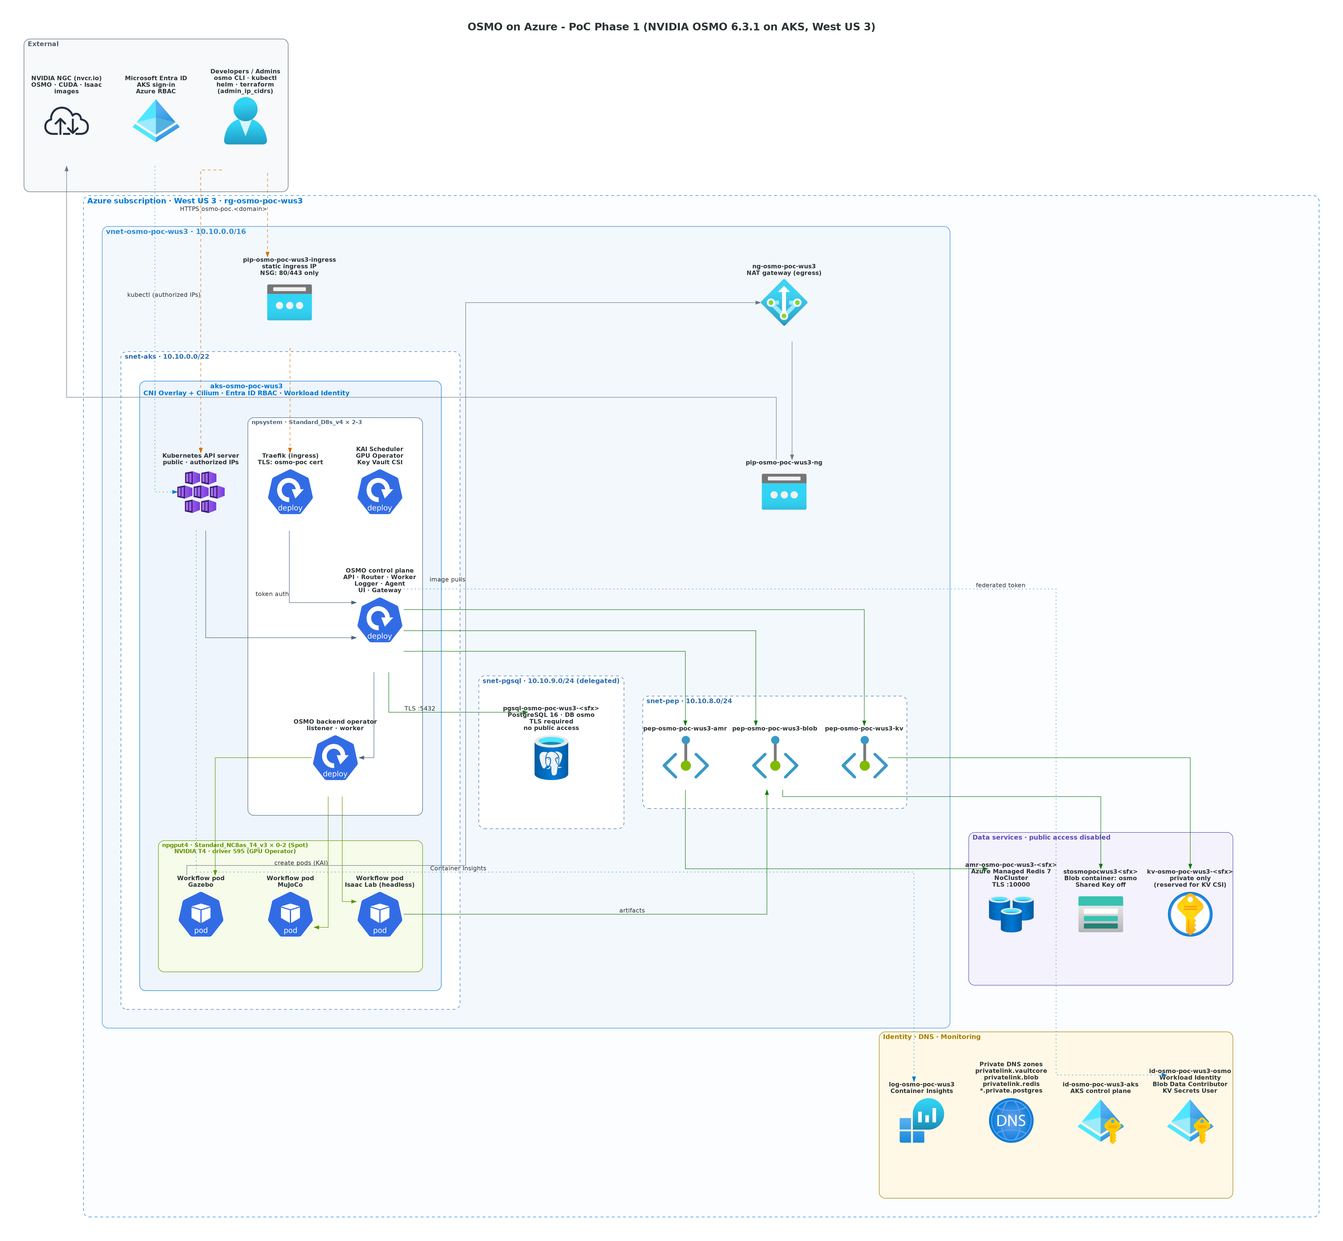
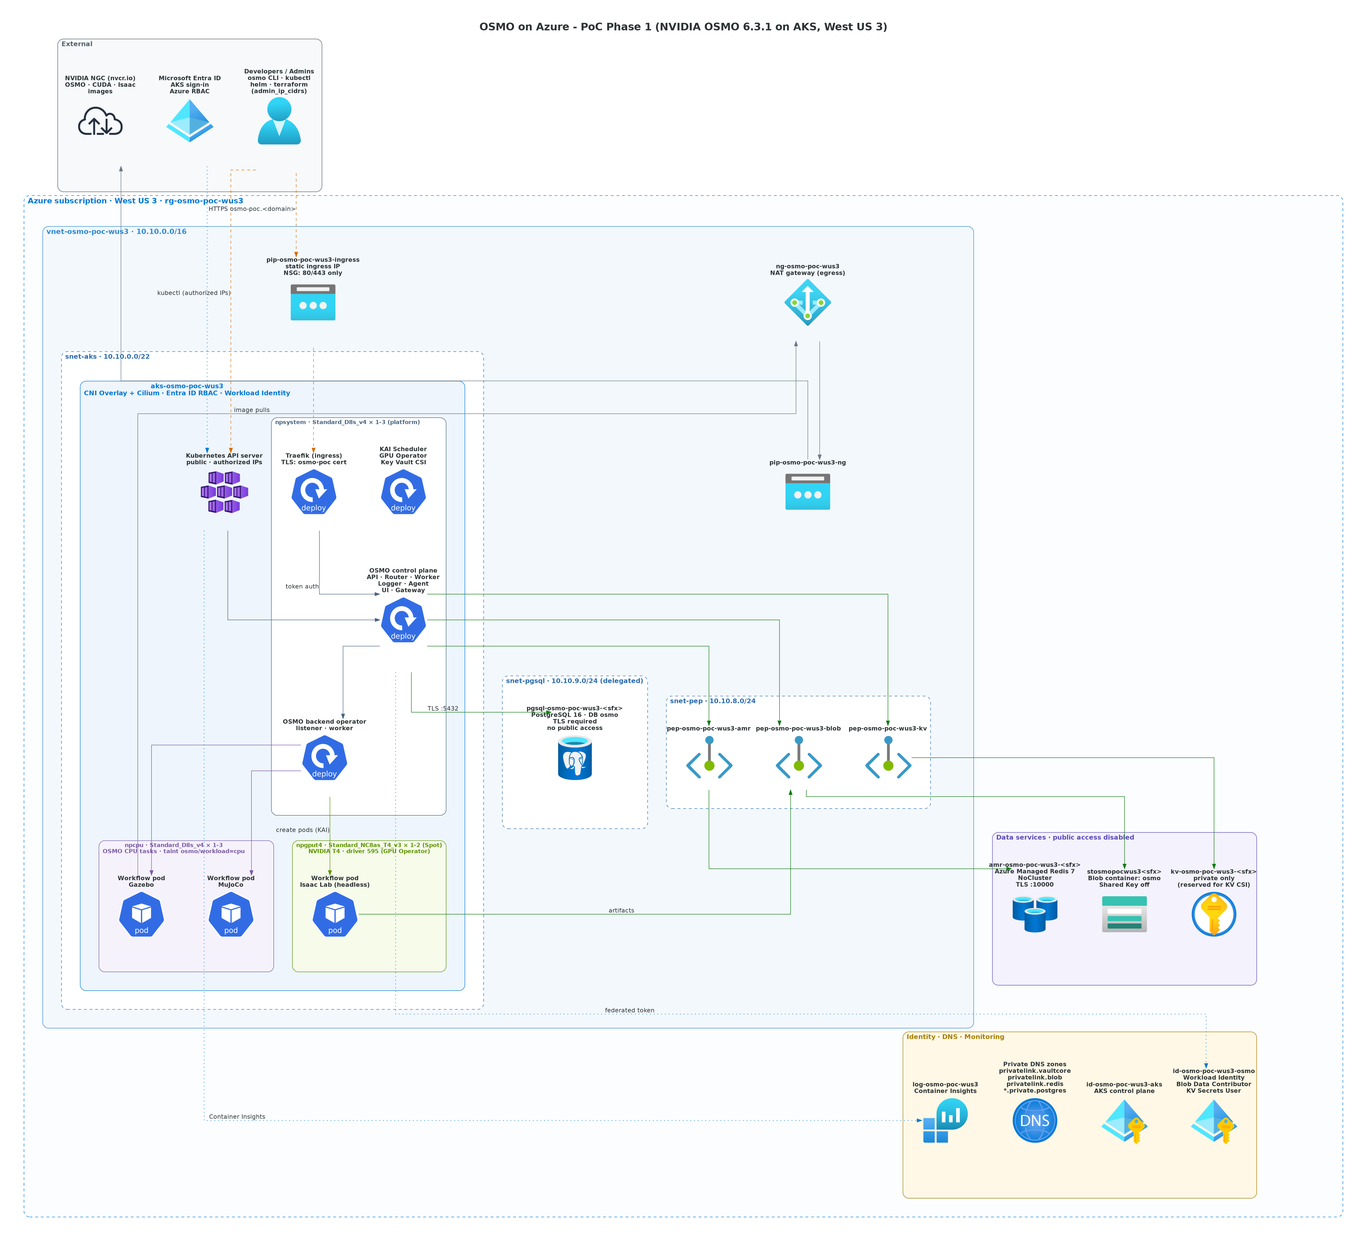
feat: dedicated CPU node pool for OSMO tasks; operations guide
infra/terraform
- New user node pool npcpu (D8s_v4 x1-3, taint osmo/workload=cpu) for
  OSMO CPU tasks; system pool back to min 1 (platform components only)

deploy
- OSMO default platform bound to npcpu via cpu_pool pod template
  (nodeSelector + toleration); system nodes no longer counted as
  workload capacity. hello / storage / gpu checks pass.

docs
- docs/operations-guide.md: daily resume, login, workflow history and
  logs, resources, cost control, troubleshooting
- README / Terraform README / deploy README and diagram updated

diff --git a/docs/operations-guide.md b/docs/operations-guide.md
@@ -1,0 +1,172 @@
+# OSMO on Azure 操作手册
+
+日常使用和运维 OSMO 的常用命令。所有命令都在**部署机**上执行，也就是装有 `az`、`kubectl`、`terraform` 和 `osmo` CLI，并且出口 IP 在 `admin_ip_cidrs` 里的那台机器。部署步骤见 [deploy/README.zh-CN.md](../deploy/README.zh-CN.md)。
+
+文中用到的占位符：
+
+| 占位符 | 含义 | 查询方式 |
+|---|---|---|
+| `<OSMO_HOSTNAME>` | OSMO 的公网 HTTPS 域名（第 5 步配置） | `kubectl get ingress osmo-public -n osmo -o jsonpath='{.spec.rules[0].host}'` |
+| `<workflow-id>` | 工作流 ID，例如 `poc-gpu-t4-4` | `osmo workflow list` |
+
+---
+
+## 1. 每天开始前：恢复环境
+
+部分订阅（如 MCAPS）每晚会自动停止 AKS 和 PostgreSQL，停机期间所有命令都会报连接失败。每天第一次使用前执行一次：
+
+```bash
+cd ~/Codes/osmo-on-azure
+deploy/scripts/00-resume.sh
+```
+
+这个脚本会做三件事：启动 AKS 和 PostgreSQL；等待 Workload Identity webhook 就绪；重启 OSMO 各组件。
+
+单独检查运行状态：
+
+```bash
+az aks show -g <资源组> -n <AKS 名称> --query powerState.code -o tsv          # Running / Stopped
+az postgres flexible-server show -g <资源组> -n <PG 名称> --query state -o tsv  # Ready / Stopped
+```
+
+资源组、AKS 和 PostgreSQL 的名称可以用 `terraform -chdir=infra/terraform output` 查看。
+
+---
+
+## 2. 登录 OSMO
+
+### 通过公网域名（推荐）
+
+```bash
+osmo login https://<OSMO_HOSTNAME> --method token \
+  --token-file <(kubectl get secret osmo-default-admin -n osmo -o jsonpath='{.data.password}' | base64 -d)
+```
+
+登录后 CLI 会保存会话。之后如果提示 token 过期，重新执行这条命令即可。
+
+### 通过 port-forward（没有配置域名时）
+
+```bash
+kubectl port-forward -n osmo svc/osmo-gateway 9000:80 &
+osmo login http://127.0.0.1:9000 --method token \
+  --token-file <(kubectl get secret osmo-default-admin -n osmo -o jsonpath='{.data.password}' | base64 -d)
+```
+
+### 签发个人 token（可选）
+
+默认管理员 token 不会过期。如果要把访问权限交给别人，或者在其他机器上使用，可以签发一个有过期时间、可以吊销的 token：
+
+```bash
+osmo token set <token名称> -e 2026-12-31 -d "说明" -t json | jq -r .token > ~/<token名称>.token
+chmod 600 ~/<token名称>.token
+osmo token list                    # 查看已签发的 token
+osmo token delete <token名称>      # 吊销
+```
+
+---
+
+## 3. 查看调度记录
+
+```bash
+osmo workflow list                                   # 最近 20 条（默认只显示自己提交的）
+osmo workflow list -a -c 50 -o desc                  # 所有用户、最近 50 条、最新的在最上面
+osmo workflow list -s FAILED RUNNING                 # 按状态筛选
+osmo workflow list --submitted-after 2026-11-05      # 按提交日期筛选
+osmo workflow list -n gpu                            # 名称中包含 gpu 的工作流
+osmo workflow list -p default                        # 指定资源池
+```
+
+常见的状态：`PENDING`、`WAITING`、`RUNNING`、`COMPLETED`、`FAILED`、`FAILED_CANCELED`、`FAILED_IMAGE_PULL`、`FAILED_EVICTED`（Spot 节点被回收）、`FAILED_QUEUE_TIMEOUT`、`FAILED_EXEC_TIMEOUT`。
+
+> 列表里的 Overview 链接是集群内部地址，浏览器打不开。Web UI 要接入 Entra ID 后才能使用，在此之前请用下面的命令查看详情。
+
+## 4. 查看单个工作流
+
+```bash
+osmo workflow query <workflow-id>                    # 状态和各任务情况（加 -v 显示重试记录）
+osmo workflow events <workflow-id>                   # 调度事件：分配到哪个节点、拉镜像、启动
+osmo workflow logs <workflow-id>                     # 任务日志（实时流式输出）
+osmo workflow logs <workflow-id> -t <任务名> -n 50   # 指定任务，只看最后 50 行
+osmo workflow logs <workflow-id> --error             # 失败任务的错误日志
+osmo workflow spec <workflow-id>                     # 当时提交的工作流 YAML
+```
+
+## 5. 查看资源
+
+```bash
+osmo pool list                                       # 资源池状态（ONLINE/OFFLINE）、GPU 用量
+osmo resource list -p default                        # 每个节点的 CPU、内存、GPU 用量
+osmo resource list -p default -m free                # 只看空闲资源
+osmo config show BACKEND default                     # backend 状态（online、最近一次心跳）
+```
+
+## 6. 提交与取消
+
+在仓库根目录执行：
+
+```bash
+osmo workflow submit deploy/workflows/hello.yaml --pool default              # CPU 任务
+osmo workflow submit deploy/workflows/storage-roundtrip.yaml --pool default  # 产物上传、下载
+osmo workflow submit deploy/workflows/gpu-t4.yaml --pool default             # T4 GPU 任务
+osmo workflow validate <工作流.yaml> --pool default                          # 只校验，不提交
+osmo workflow cancel <workflow-id>
+osmo workflow restart <workflow-id>                                          # 重跑失败的工作流
+```
+
+一键跑完全部验收：`deploy/scripts/04-verify.sh`；也可以只跑其中几项：`deploy/scripts/04-verify.sh hello gpu`。
+
+所有 `osmo` 命令都支持加 `-t json` 输出 JSON，方便用 `jq` 处理。
+
+---
+
+## 7. Kubernetes 视角
+
+```bash
+kubectl get nodes -L kubernetes.azure.com/agentpool,nvidia.com/gpu.product   # 节点、所属节点池、GPU 型号
+kubectl get pods -n osmo-workflows -o wide                                   # 正在运行的作业 Pod 及其所在节点
+kubectl get events -n osmo-workflows --sort-by=.lastTimestamp                # 调度和拉镜像的事件
+kubectl get pods -n osmo                                                     # OSMO 控制面组件
+kubectl get pods -n osmo-operator                                            # backend operator
+kubectl get pods -n gpu-operator -o wide                                     # GPU 驱动、device plugin
+kubectl get cronjob,jobs -n osmo                                             # SAS 轮换器（OSMO 6.3.1 的变通方案）
+```
+
+作业 Pod 运行结束后会被清理掉，历史记录要用 `osmo workflow ...` 查询。
+
+## 8. Azure 门户：查看作业日志
+
+打开 Log Analytics 工作区（`terraform output` 里的 `log-...`），进入**日志**页面，执行下面的查询。日志会一直保留，集群停机时也能查：
+
+```kusto
+ContainerLogV2
+| where PodNamespace == "osmo-workflows"
+| where ContainerName !in ("osmo-ctrl", "osmo-init")
+| project TimeGenerated, PodName, ContainerName, LogMessage
+| order by TimeGenerated desc
+```
+
+---
+
+## 9. 成本控制
+
+| 操作 | 方法 |
+|---|---|
+| CPU 作业节点池 | `cpu_node_min_count`（默认 1）和 `cpu_node_max_count`（默认 3）。设为 0 后无法提交 CPU 任务 |
+| 暂时不用 GPU | 在 `infra/terraform/terraform.tfvars` 中设置 `gpu_node_min_count = 0`，然后执行 `terraform apply`。注意：节点池缩到 0 台后无法提交 GPU 任务 |
+| 恢复使用 GPU | 设置 `gpu_node_min_count = 1`，然后执行 `terraform apply`。新节点安装驱动大约需要 5–10 分钟 |
+| 下班后手动停机 | `az aks stop ...`、`az postgres flexible-server stop ...`；下次使用时执行 `00-resume.sh` |
+
+## 10. 常见问题
+
+| 现象 | 原因 | 处理 |
+|---|---|---|
+| 连接超时或 DNS 解析失败 | 集群已停机 | 执行 `deploy/scripts/00-resume.sh` |
+| `There are no resources in platform t4` | GPU 节点池当前是 0 台 | 设置 `gpu_node_min_count = 1`，然后 `terraform apply` |
+| `Value ... too high for CPU` | CPU 节点池 `npcpu` 的空闲 CPU 不够 | `osmo resource list -p default -m free` 查看空闲资源；调大 `cpu_node_min_count` 或换更大的 `cpu_node_vm_size`；或者减小工作流中 `cpu` 的申请量 |
+| 新增节点后，`osmo resource list` 里看不到新节点 | backend operator 用的还是旧的节点缓存 | `kubectl rollout restart deploy -n osmo-operator` |
+| 工作流长时间停在 `PENDING` | 节点正在扩容、在拉镜像，或 Spot 容量不足 | 用 `osmo workflow events <id>` 和 `kubectl get events -n osmo-workflows` 排查 |
+| `FAILED_EVICTED` | Spot 节点被回收 | 执行 `osmo workflow restart <id>` 重跑 |
+| 产物上传失败（Blob 403 或 SAS 过期） | SAS 轮换器失败超过 7 天 | `kubectl get cronjob,jobs -n osmo`；手动触发一次：`kubectl create job --from=cronjob/osmo-sas-rotator sas-manual -n osmo` |
+| 跑完 `04-verify.sh` 后，`osmo` 命令报 `127.0.0.1:9000 Connection refused` | 验收脚本把 CLI 登录到了它临时开的 port-forward 地址，脚本结束后这个地址就失效了 | 用公网域名重新登录（见第 2 节） |
+| `osmo login` 返回 401 | 用了错误的 token，或者 token 已过期 | 重新从 `osmo-default-admin` Secret 读取 token 后登录 |
+| `osmo pool list` 显示 `OFFLINE` | backend operator 没有在运行 | `kubectl get pods -n osmo-operator`；执行 `00-resume.sh` 重启 |

diff --git a/deploy/README.md b/deploy/README.md
@@ -36,7 +36,7 @@ This directory deploys NVIDIA OSMO 6.3.1 onto the AKS cluster created by [infra/
   - `workflow_log` and `workflow_app` use Workload Identity. The control plane runs as ServiceAccount `osmo/osmo`.
   - `workflow_data` (task artifacts) uses a rotating, container-scoped **user delegation SAS**. The SAS is signed with Entra ID, not an account key. See the issues section below for why.
 - **Pool `default`.**
-  - Platform `default`: CPU-only tasks on the system node pool.
+  - Platform `default`: CPU-only tasks on the dedicated CPU node pool `npcpu` (nodeSelector plus a toleration for `osmo/workload=cpu`). The system pool runs only the platform components.
   - Platform `t4`: 1 × T4 per task on the Spot pool `npgput4`. It defaults to 4 CPU, 32 GiB memory and 50 GiB storage, and tolerates the `nvidia.com/gpu` and Spot taints.
 
 ## Prerequisites
@@ -125,7 +125,7 @@ Run a subset with `deploy/scripts/04-verify.sh hello storage`.
 | 4 | Task artifact upload fails with `KeyError: 'access_key_id'` | OSMO 6.3.1 bug: osmo-ctrl assumes the workflow_data credential has keys. Fixed in OSMO 6.4, which is not released yet. Account keys are blocked by policy. | User delegation SAS for `workflow_data`, rotated every 3 days by a CronJob ([manifests/workflow-data-sas-rotator.yaml](manifests/workflow-data-sas-rotator.yaml)) |
 | 5 | GPU containers fail with `No help topic for 'apply-cuda-memory-limits'` | Container toolkit v1.17.8 (pinned by microsoft/physical-ai-toolchain for operator v26.3) is too old for operator v26.7 | Use the chart's toolkit v1.20.1. GPU nodes run Ubuntu 22.04, where it is stable. |
 | 6 | GPU submit fails with `There are no resources in platform t4` | OSMO validates against existing nodes, so a pool at 0 nodes cannot receive work | Keep `gpu_node_min_count = 1` while testing, and set it to 0 when idle |
-| 7 | CPU submit fails with `Value 1.0 too high for CPU` | The system pool also runs Traefik, KAI, the GPU Operator controllers and policy-injected components such as Defender. OSMO validates against free capacity, not autoscaling. | `system_node_min_count` defaults to 2 |
+| 7 | CPU submit fails with `Value 1.0 too high for CPU` | The system pool also runs Traefik, KAI, the GPU Operator controllers and policy-injected components such as Defender. OSMO validates against free capacity, not autoscaling. | CPU tasks run on a dedicated node pool `npcpu`, and the system pool runs only the platform components |
 | 8 | After the nightly auto-shutdown, osmo-service, worker and agent are missing | Pods are created before the Workload Identity webhook is ready (`failed calling webhook mutation.azure-workload-identity.io`) | `scripts/00-resume.sh` starts AKS and PostgreSQL and restarts the OSMO deployments |
 | 9 | Envoy keeps serving the old config, with logs showing `unknown cluster 'oauth2-proxy'` | Envoy loads listeners and clusters from separate files, so a route can briefly reference a cluster that is not loaded yet, and the rejected update is not retried | `02-osmo-service.sh` restarts Envoy after every Helm upgrade |
 | 10 | The public IP does not respond on 80/443 | A subscription policy attached a deny-all-inbound NSG to every subnet | infra/terraform manages its own `snet-aks` NSG that allows 80/443 only to the ingress IP |

diff --git a/deploy/README.zh-CN.md b/deploy/README.zh-CN.md
@@ -36,7 +36,7 @@
   - `workflow_log` 和 `workflow_app` 使用 Workload Identity，控制面使用 ServiceAccount `osmo/osmo`。
   - `workflow_data`（任务产物）使用定期轮换的、容器级的**用户委托 SAS**。这个 SAS 由 Entra ID 签发，不依赖账号密钥，原因见下文。
 - **资源池 `default`**：
-  - 平台 `default`：仅 CPU 任务，运行在系统节点池。
+  - 平台 `default`：仅 CPU 任务，运行在专用的 CPU 节点池 `npcpu` 上（通过 nodeSelector 指定节点池，并容忍 `osmo/workload=cpu` taint）。系统节点池只运行平台组件。
   - 平台 `t4`：每个任务 1 张 T4，运行在 Spot 节点池 `npgput4`。默认 4 CPU、32 GiB 内存、50 GiB 存储，并容忍 `nvidia.com/gpu` 和 Spot 两个 taint。
 
 ## 前置条件
@@ -125,7 +125,7 @@ osmo workflow logs <workflow-id>
 | 4 | 任务产物上传报 `KeyError: 'access_key_id'` | OSMO 6.3.1 的 bug：osmo-ctrl 默认 workflow_data 凭据里一定有密钥。6.4 已修复但尚未发布；账号密钥又被订阅策略禁用 | `workflow_data` 改用用户委托 SAS，由 CronJob 每 3 天轮换一次（[manifests/workflow-data-sas-rotator.yaml](manifests/workflow-data-sas-rotator.yaml)） |
 | 5 | GPU 容器启动失败，报 `No help topic for 'apply-cuda-memory-limits'` | container toolkit v1.17.8 是 microsoft/physical-ai-toolchain 为 operator v26.3 锁定的版本，对 operator v26.7 来说太旧 | 改用 chart 自带的 toolkit v1.20.1；GPU 节点运行 Ubuntu 22.04，在这个系统上运行稳定 |
 | 6 | 提交 GPU 任务报 `There are no resources in platform t4` | OSMO 按现有节点校验资源，节点池缩到 0 时无法接收任务 | 测试期间设置 `gpu_node_min_count = 1`，闲置时改回 0 |
-| 7 | 提交 CPU 任务报 `Value 1.0 too high for CPU` | 系统池上还运行着 Traefik、KAI、GPU Operator 控制器，以及订阅策略注入的 Defender 等组件；OSMO 按节点当前空闲资源校验，不会触发自动扩容 | `system_node_min_count` 默认改为 2 |
+| 7 | 提交 CPU 任务报 `Value 1.0 too high for CPU` | 系统池上还运行着 Traefik、KAI、GPU Operator 控制器，以及订阅策略注入的 Defender 等组件；OSMO 按节点当前空闲资源校验，不会触发自动扩容 | CPU 任务改到专用节点池 `npcpu` 上运行，系统节点池只运行平台组件 |
 | 8 | 每晚自动停机后，osmo-service、worker、agent 等组件缺失 | 集群启动时 Workload Identity 的 webhook 还没就绪，Pod 创建失败（`failed calling webhook mutation.azure-workload-identity.io`） | 运行 `scripts/00-resume.sh`：启动 AKS 和 PostgreSQL，并重启 OSMO 的各个 Deployment |
 | 9 | Envoy 一直沿用旧配置，日志报 `unknown cluster 'oauth2-proxy'` | Envoy 从两个文件分别加载监听器和集群配置，路由可能引用了一个还没加载的集群，被拒绝的更新不会自动重试 | `02-osmo-service.sh` 在每次 Helm 升级后重启 Envoy |
 | 10 | 公网 IP 的 80/443 端口不通 | 订阅策略给每个子网都自动挂上了默认拒绝所有入站流量的 NSG | infra/terraform 为 `snet-aks` 创建自管的 NSG，只允许访问入口 IP 的 80/443 |

diff --git a/infra/terraform/README.md b/infra/terraform/README.md
@@ -18,7 +18,8 @@ _Edges: green = private (VNet / Private Link) · orange dashed = public endpoint
 | Blob storage | Private only (private endpoint) | Shared Key is disabled. OSMO uses Workload Identity, plus a user delegation SAS for workflow data on OSMO 6.3.1. |
 | Key Vault | Private only (private endpoint) | Reserved for in-cluster secret management (Key Vault CSI). Terraform does not write secrets into it; see Notes. |
 | GPU node pool | — | NVIDIA T4, **Spot** priority by default (Regular is available), can scale to zero, but keep `gpu_node_min_count = 1` while testing because OSMO rejects submissions to an empty platform. `gpu_driver=None`: the GPU Operator installs the driver. |
-| System node pool | — | `Standard_D8s_v4`, minimum **2** nodes. It also runs Traefik, KAI and policy-injected components, and OSMO rejects CPU tasks when the pool has no free CPU. |
+| System node pool (`npsystem`) | — | `Standard_D8s_v4` × 1–3. Runs the platform only: OSMO control plane, Traefik, KAI, GPU Operator controllers and policy-injected components. |
+| CPU task node pool (`npcpu`) | — | `Standard_D8s_v4` × 1–3, with taint `osmo/workload=cpu:NoSchedule`. Dedicated to OSMO CPU tasks (the `default` platform). Keep at least 1 node, because OSMO rejects tasks for a platform that has no free capacity. |
 | Public ingress (Traefik) | Static public IP `pip-<base>-ingress`, plus NSG `nsg-<base>-aks` on `snet-aks` | Only 80/443 to the ingress IP are allowed from the Internet. Traefik binds to this IP (see deploy/README.md, step 5). |
 
 Azure Container Registry is out of scope for phase 1. Images are pulled directly from nvcr.io.
@@ -48,7 +49,7 @@ Default names (`<sfx>` is the unique suffix):
 | Resource group / AKS node resource group | `rg-osmo-poc-wus3` / `rg-osmo-poc-wus3-aksnodes` |
 | VNet / subnets | `vnet-osmo-poc-wus3` / `snet-aks`, `snet-pep`, `snet-pgsql` |
 | NAT gateway / public IP | `ng-osmo-poc-wus3` / `pip-osmo-poc-wus3-ng` |
-| AKS / node pools | `aks-osmo-poc-wus3` / `npsystem`, `npgput4` |
+| AKS / node pools | `aks-osmo-poc-wus3` / `npsystem`, `npcpu`, `npgput4` |
 | Managed identities | `id-osmo-poc-wus3-aks` (control plane), `id-osmo-poc-wus3-osmo` (OSMO workloads) |
 | PostgreSQL | `pgsql-osmo-poc-wus3-<sfx>`, with private DNS zone `osmo-poc-wus3.private.postgres.database.azure.com` |
 | Managed Redis | `amr-osmo-poc-wus3-<sfx>` |

diff --git a/infra/terraform/README.zh-CN.md b/infra/terraform/README.zh-CN.md
@@ -18,7 +18,8 @@ _连线说明：绿色 = 私网（VNet / Private Link）· 橙色虚线 = 仅放
 | Blob 存储 | 仅私网（PE） | 禁用 Shared Key。OSMO 通过 Workload Identity 访问；在 OSMO 6.3.1 上，workflow data 另外使用用户委托 SAS |
 | Key Vault | 仅私网（PE） | 预留给集群内密钥管理（Key Vault CSI）；Terraform 不向其写入 secret，见注意事项 |
 | GPU 节点池 | — | T4，默认 **Spot** 优先级（可改为 Regular），可以缩到 0 个节点，但测试期间请设置 `gpu_node_min_count = 1`，因为 OSMO 不接受提交到没有节点的平台；`gpu_driver=None`，驱动由 GPU Operator 安装 |
-| 系统节点池 | — | `Standard_D8s_v4`，最少 **2** 台。它同时运行 Traefik、KAI 和订阅策略注入的组件；池中没有空闲 CPU 时，OSMO 会拒绝 CPU 任务 |
+| 系统节点池（`npsystem`） | — | `Standard_D8s_v4` × 1–3，只运行平台组件：OSMO 控制面、Traefik、KAI、GPU Operator 控制器，以及订阅策略注入的组件 |
+| CPU 作业节点池（`npcpu`） | — | `Standard_D8s_v4` × 1–3，带 taint `osmo/workload=cpu:NoSchedule`，专门运行 OSMO 的 CPU 任务（`default` 平台）。请至少保留 1 台：平台没有空闲资源时，OSMO 会直接拒绝提交 |
 | 公网入口（Traefik） | 固定公网 IP `pip-<base>-ingress`，以及 `snet-aks` 上的 NSG `nsg-<base>-aks` | 只允许来自 Internet、访问入口 IP 80/443 端口的流量。Traefik 绑定到这个 IP（见 deploy/README.zh-CN.md 第 5 步） |
 
 ACR 不在第一阶段范围内，镜像直接从 nvcr.io 拉取。
@@ -48,7 +49,7 @@ ACR 不在第一阶段范围内，镜像直接从 nvcr.io 拉取。
 | 资源组 / AKS 节点资源组 | `rg-osmo-poc-wus3` / `rg-osmo-poc-wus3-aksnodes` |
 | VNet / 子网 | `vnet-osmo-poc-wus3` / `snet-aks`、`snet-pep`、`snet-pgsql` |
 | NAT Gateway / 公网 IP | `ng-osmo-poc-wus3` / `pip-osmo-poc-wus3-ng` |
-| AKS / 节点池 | `aks-osmo-poc-wus3` / `npsystem`、`npgput4` |
+| AKS / 节点池 | `aks-osmo-poc-wus3` / `npsystem`、`npcpu`、`npgput4` |
 | 托管身份 | `id-osmo-poc-wus3-aks`（控制面）、`id-osmo-poc-wus3-osmo`（OSMO 工作负载） |
 | PostgreSQL | `pgsql-osmo-poc-wus3-<sfx>`，私有 DNS 区域 `osmo-poc-wus3.private.postgres.database.azure.com` |
 | Managed Redis | `amr-osmo-poc-wus3-<sfx>` |

diff --git a/README.md b/README.md
@@ -16,6 +16,7 @@ _Edges: green = private (VNet / Private Link) · orange dashed = public endpoint
 |---|---|
 | [docs/background.md](docs/background.md) (Chinese) | Project background, technology choices, PoC success criteria, open items |
 | [docs/reference-repos.md](docs/reference-repos.md) (Chinese) | Review of the reference repos (NVIDIA/OSMO, microsoft/physical-ai-toolchain): version choice, PostgreSQL TLS, reusable parts |
+| [docs/operations-guide.md](docs/operations-guide.md) (Chinese) | Operations guide: resume the environment, log in, view workflow history and logs, check resources, cost control, troubleshooting |
 | [docs/t4-feasibility.md](docs/t4-feasibility.md) (Chinese) | Feasibility of running Isaac Lab / Isaac Sim / MuJoCo / Gazebo on T4 GPUs |
 | [docs/images/](docs/images/) | Azure architecture, OSMO deployment architecture, OSMO workflow sequence |
 | [infra/terraform/](infra/terraform/README.md) | Azure infrastructure: AKS, T4 GPU node pool, private data services |

diff --git a/README.zh-CN.md b/README.zh-CN.md
@@ -16,6 +16,7 @@ _连线说明：绿色 = 私网（VNet / Private Link）· 橙色虚线 = 仅放
 |---|---|
 | [docs/background.md](docs/background.md) | 项目背景、技术选型、PoC 成功标准、待确认事项 |
 | [docs/reference-repos.md](docs/reference-repos.md) | 参考仓库研读结论（NVIDIA/OSMO、microsoft/physical-ai-toolchain）：版本选择、PG TLS、可复用内容 |
+| [docs/operations-guide.md](docs/operations-guide.md) | 操作手册：恢复环境、登录、查看调度记录和日志、资源查看、成本控制、常见问题 |
 | [docs/t4-feasibility.md](docs/t4-feasibility.md) | T4 GPU 运行 Isaac Lab / Isaac Sim / MuJoCo / Gazebo 的可行性评估 |
 | [docs/images/](docs/images/) | Azure 部署架构图、OSMO 部署架构图、工作流时序图 |
 | [infra/terraform/](infra/terraform/README.zh-CN.md) | Azure 基础设施（AKS、T4 GPU 池、私网数据组件） |
